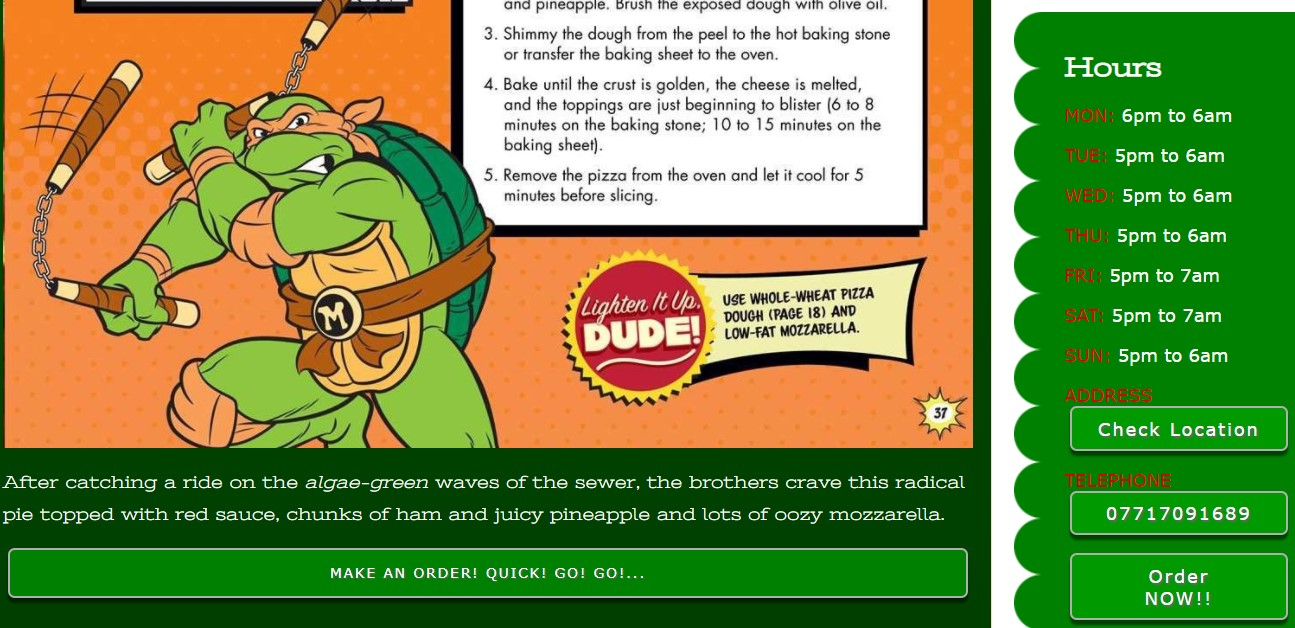
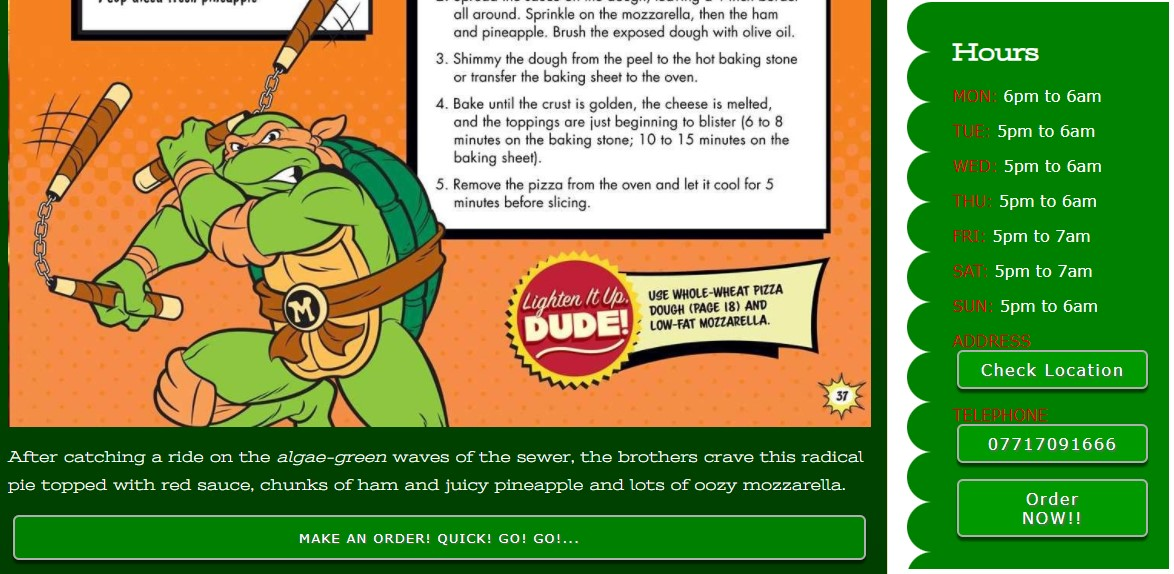
19081109

diff --git a/gallery.html b/gallery.html
@@ -58,7 +58,7 @@
             so it doesn't match the aside bar color.
             --> 
             <p class="asidelinks"><span class="day">Address<br></span><a class="asidelinks" href="https://goo.gl/maps/BbgSRSApi6knMGde7">Check Location</a></p>
-            <p class="asidelinks"><span class="day">Telephone<br></span><a href="tel:07717091689">07717091689</a></p>
+            <p class="asidelinks"><span class="day">Telephone<br></span><a href="tel:07717091666">07717091666</a></p>
             <p class="asidelinks"><a href="order.html">Order<br>NOW!!</a></p>
         </aside>
 

diff --git a/order.html b/order.html
@@ -104,7 +104,7 @@
       		so it doesn't match the aside bar color.
       		-->	
       		<p class="asidelinks"><span class="day">Address<br></span><a class="asidelinks" href="https://goo.gl/maps/BbgSRSApi6knMGde7">Check Location</a></p>
-      		<p class="asidelinks"><span class="day">Telephone<br></span><a href="tel:07717091689">07717091689</a></p>
+      		<p class="asidelinks"><span class="day">Telephone<br></span><a href="tel:07717091666">07717091666</a></p>
       		<p class="asidelinks"><a href="order.html">Order<br>NOW!!</a></p>
     	</aside>
 

diff --git a/index.html b/index.html
@@ -56,7 +56,7 @@
       		so it doesn't match the aside bar color.
       		-->	
       		<p class="asidelinks"><span class="day">Address<br></span><a class="asidelinks" href="https://goo.gl/maps/BbgSRSApi6knMGde7">Check Location</a></p>
-      		<p class="asidelinks"><span class="day">Telephone<br></span><a href="tel:07717091689">07717091689</a></p>
+      		<p class="asidelinks"><span class="day">Telephone<br></span><a href="tel:07717091666">07717091666</a></p>
       		<p class="asidelinks"><a href="order.html">Order<br>NOW!!</a></p>
     	</aside>
 

diff --git a/menu.html b/menu.html
@@ -90,7 +90,7 @@
 			so it doesn't match the aside bar color.
 			--> 
 			<p class="asidelinks"><span class="day">Address<br></span><a class="asidelinks" href="https://goo.gl/maps/BbgSRSApi6knMGde7">Check Location</a></p>
-			<p class="asidelinks"><span class="day">Telephone<br></span><a href="tel:07717091689">07717091689</a></p>
+			<p class="asidelinks"><span class="day">Telephone<br></span><a href="tel:07717091666">07717091666</a></p>
 			<p class="asidelinks"><a href="order.html">Order<br>NOW!!</a></p>
 		</aside>
 

diff --git a/aboutus.html b/aboutus.html
@@ -54,7 +54,7 @@
     			            .whitetext color to make second colulmn white for clarity
     			            .whitetext a:link to remove the underline.
     			            -->
-    			           <td><a href="tel:07717091689">07717091689</a></td>
+    			           <td><a href="tel:07717091666">07717091666</a></td>
   				       </tr>
   				       <tr>
     			           <td>Email</td>
